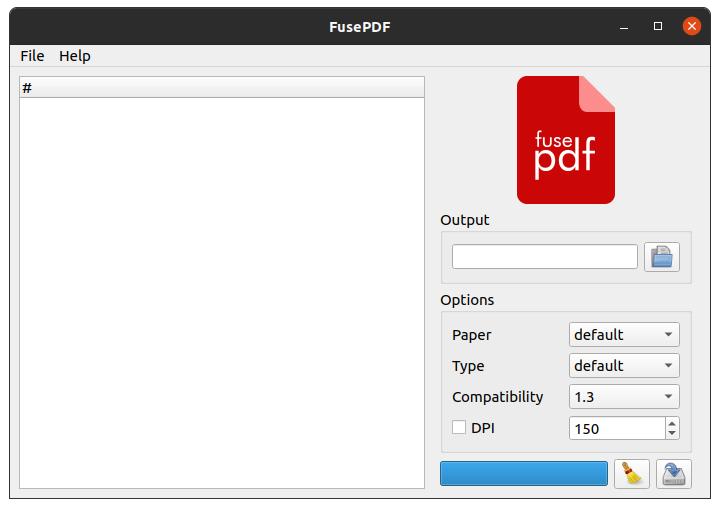
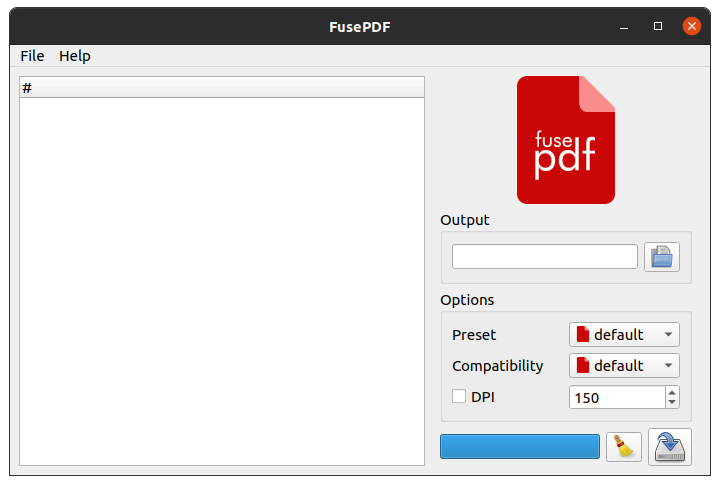
ui/ux changes, also removed paper option

diff --git a/fusepdf.cpp b/fusepdf.cpp
@@ -78,12 +78,6 @@ void FusePDF::on_actionAbout_triggered()
                           ).arg(VERSION_APP));
 }
 
-void FusePDF::on_paper_currentIndexChanged(const QString &arg1)
-{
-    Q_UNUSED(arg1)
-    makeCommand();
-}
-
 void FusePDF::on_preset_currentIndexChanged(const QString &arg1)
 {
     Q_UNUSED(arg1)
@@ -144,11 +138,10 @@ void FusePDF::makeCommand()
     command = QString("\"%1\"").arg(findGhost());
 #endif
     command.append(" -sDEVICE=pdfwrite");
-    command.append(QString(" -dCompatibilityLevel=%1").arg(ui->compat->currentText()));
-    command.append(QString(" -dPDFSETTINGS=/%1").arg(ui->preset->currentText()));
-    if (!ui->paper->currentText().isEmpty() && ui->paper->currentText() != "default") {
-        command.append(QString(" -sPAPERSIZE=%1").arg(ui->paper->currentText()));
+    if (!ui->compat->currentText().isEmpty() && ui->compat->currentText() != "default") {
+        command.append(QString(" -dCompatibilityLevel=%1").arg(ui->compat->currentText()));
     }
+    command.append(QString(" -dPDFSETTINGS=/%1").arg(ui->preset->currentText()));
     command.append(" -dNOPAUSE -dBATCH -dDetectDuplicateImages -dCompressFonts=true");
     if (ui->dpiCheck->isChecked()) {
         command.append(QString(" -r%1").arg(ui->dpi->value()));
@@ -158,14 +151,11 @@ void FusePDF::makeCommand()
         command.append(QString(" \"%1\"").arg(ui->inputs->topLevelItem(i)->text(1)));
     }
     _cmd = command;
-
-    ui->cmd->setPlainText(_cmd);
     qDebug() << _cmd;
 }
 
 void FusePDF::runCommand()
 {
-    qDebug() << "runCommand";
     if (missingGhost()) { return; }
 
     if (ui->inputs->topLevelItemCount() == 0 || ui->fileName->text().isEmpty()) {
@@ -193,8 +183,6 @@ void FusePDF::runCommand()
 
 void FusePDF::commandStarted()
 {
-    qDebug() << "commandStarted";
-
     ui->save->setDisabled(true);
     ui->actionSave->setDisabled(true);
     ui->progressBar->setMaximum(0);
@@ -203,8 +191,6 @@ void FusePDF::commandStarted()
 
 void FusePDF::commandFinished(int exitCode)
 {
-    qDebug() << "commandfinished" << exitCode;
-
     ui->save->setDisabled(false);
     ui->actionSave->setDisabled(false);
     ui->progressBar->setMaximum(100);
@@ -224,36 +210,29 @@ void FusePDF::commandFinished(int exitCode)
 void FusePDF::populateUI()
 {
     ui->compat->clear();
-    ui->compat->addItem("1.0");
-    ui->compat->addItem("1.1");
-    ui->compat->addItem("1.2");
-    ui->compat->addItem("1.3");
-    ui->compat->addItem("1.4");
-    ui->compat->addItem("1.5");
-    ui->compat->addItem("1.6");
-    ui->compat->addItem("1.7");
-
-    ui->paper->clear();
-    ui->paper->addItem("default");
-    ui->paper->addItem("letter");
-    ui->paper->addItem("legal");
-    ui->paper->addItem("a1");
-    ui->paper->addItem("a2");
-    ui->paper->addItem("a3");
-    ui->paper->addItem("a4");
+    QIcon docIcon(":/icons/fusepdf-document.png");
+    ui->compat->addItem(docIcon, "default");
+    ui->compat->addItem(docIcon, "1.0");
+    ui->compat->addItem(docIcon, "1.1");
+    ui->compat->addItem(docIcon, "1.2");
+    ui->compat->addItem(docIcon, "1.3");
+    ui->compat->addItem(docIcon, "1.4");
+    ui->compat->addItem(docIcon, "1.5");
+    ui->compat->addItem(docIcon, "1.6");
+    ui->compat->addItem(docIcon, "1.7");
 
     ui->preset->clear();
-    ui->preset->addItem("default");
-    ui->preset->addItem("prepress");
-    ui->preset->addItem("ebook");
-    ui->preset->addItem("screen");
-    ui->preset->addItem("printer");
+    ui->preset->addItem(docIcon, "default");
+    ui->preset->addItem(docIcon, "prepress");
+    ui->preset->addItem(docIcon, "ebook");
+    ui->preset->addItem(docIcon, "screen");
+    ui->preset->addItem(docIcon, "printer");
 }
 
 void FusePDF::loadSettings()
 {
     if (isNewVersion()) { on_actionAbout_triggered(); }
-    if (!hasWindowState()) { setGeometry(100, 100, 700, 300); }
+    if (!hasWindowState()) { setGeometry(100, 100, 700, 250); }
 
     QSettings settings;
     settings.beginGroup("ui");
@@ -294,7 +273,7 @@ void FusePDF::handleProcOutput()
     QString log;
     log.append(_proc->readAllStandardError());
     log.append(_proc->readAllStandardOutput());
-    ui->cmd->appendPlainText(log);
+    ui->cmd->appendPlainText(log.simplified());
     qDebug() << log;
 }
 
@@ -326,7 +305,7 @@ const QString FusePDF::findGhost()
 
 void FusePDF::on_actionShow_log_triggered()
 {
-    ui->logBox->setVisible(ui->actionShow_log->isChecked());
+    ui->cmd->setVisible(ui->actionShow_log->isChecked());
 }
 
 void FusePDF::on_actionAbout_Qt_triggered()
@@ -396,9 +375,8 @@ void FusePDF::loadOptions()
 
     QSettings settings;
     settings.beginGroup("options");
-    ui->paper->setCurrentText(settings.value("paper", "default").toString());
     ui->dpi->setValue(settings.value("dpi", 150).toInt());
-    ui->compat->setCurrentText(settings.value("compat", "1.3").toString());
+    ui->compat->setCurrentText(settings.value("compat", "default").toString());
     ui->preset->setCurrentText(settings.value("preset", "default").toString());
     ui->actionShow_log->setChecked(settings.value("showLog", false).toBool());
     ui->actionAuto_Sort->setChecked(settings.value("autoSort", false).toBool());
@@ -407,7 +385,7 @@ void FusePDF::loadOptions()
     ui->dpiCheck->setChecked(settings.value("checkdpi", false).toBool());
     settings.endGroup();
 
-    ui->logBox->setVisible(ui->actionShow_log->isChecked());
+    ui->cmd->setVisible(ui->actionShow_log->isChecked());
     ui->inputs->setSortingEnabled(ui->actionAuto_Sort->isChecked());
 
     missingGhost();
@@ -417,9 +395,6 @@ void FusePDF::saveOptions()
 {
     QSettings settings;
     settings.beginGroup("options");
-    if (!ui->paper->currentText().isEmpty()) {
-        settings.setValue("paper", ui->paper->currentText());
-    }
     settings.setValue("dpi", ui->dpi->value());
     if (!ui->compat->currentText().isEmpty()) {
         settings.setValue("compat", ui->compat->currentText());
@@ -462,6 +437,7 @@ bool FusePDF::missingGhost()
 
 void FusePDF::handleProcessError(QProcess::ProcessError error)
 {
+    _proc->close();
     QString errorMsg;
     switch (error) {
     case QProcess::FailedToStart:

diff --git a/fusepdf.h b/fusepdf.h
@@ -74,7 +74,6 @@ private slots:
     void on_actionClear_triggered();
     void on_actionQuit_triggered();
     void on_actionAbout_triggered();
-    void on_paper_currentIndexChanged(const QString &arg1);
     void on_preset_currentIndexChanged(const QString &arg1);
     void on_compat_currentIndexChanged(const QString &arg1);
     void on_dpi_valueChanged(int arg1);
